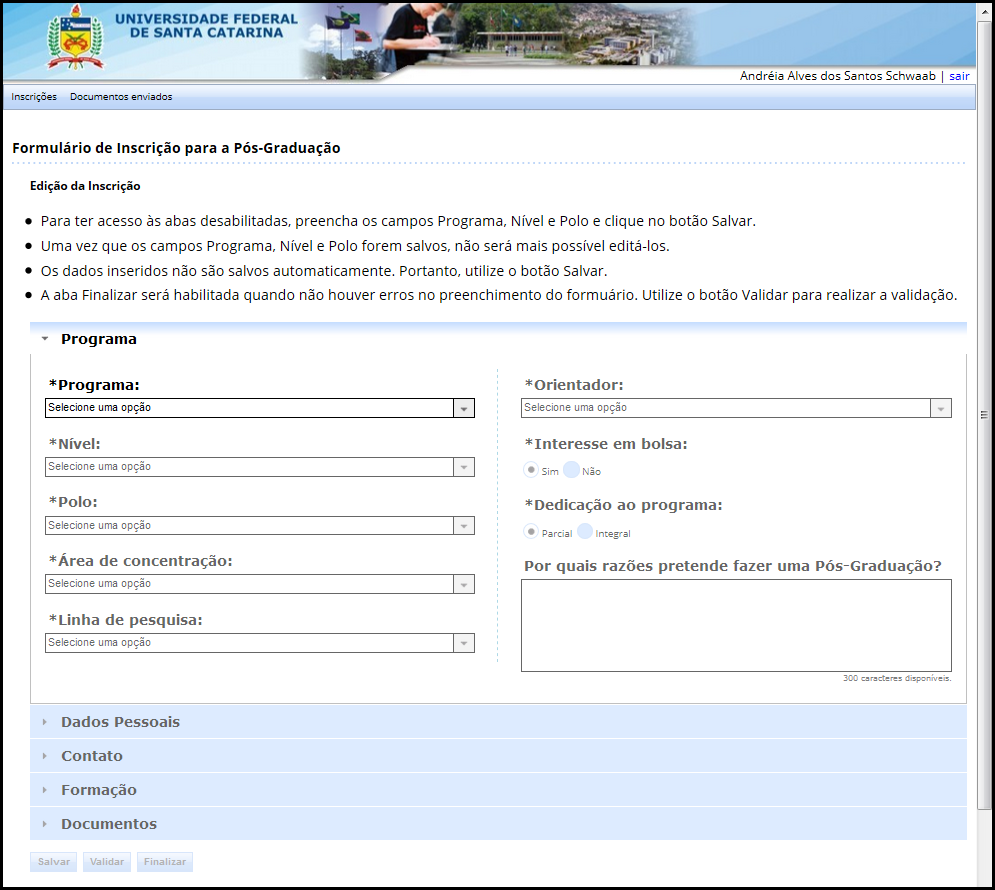
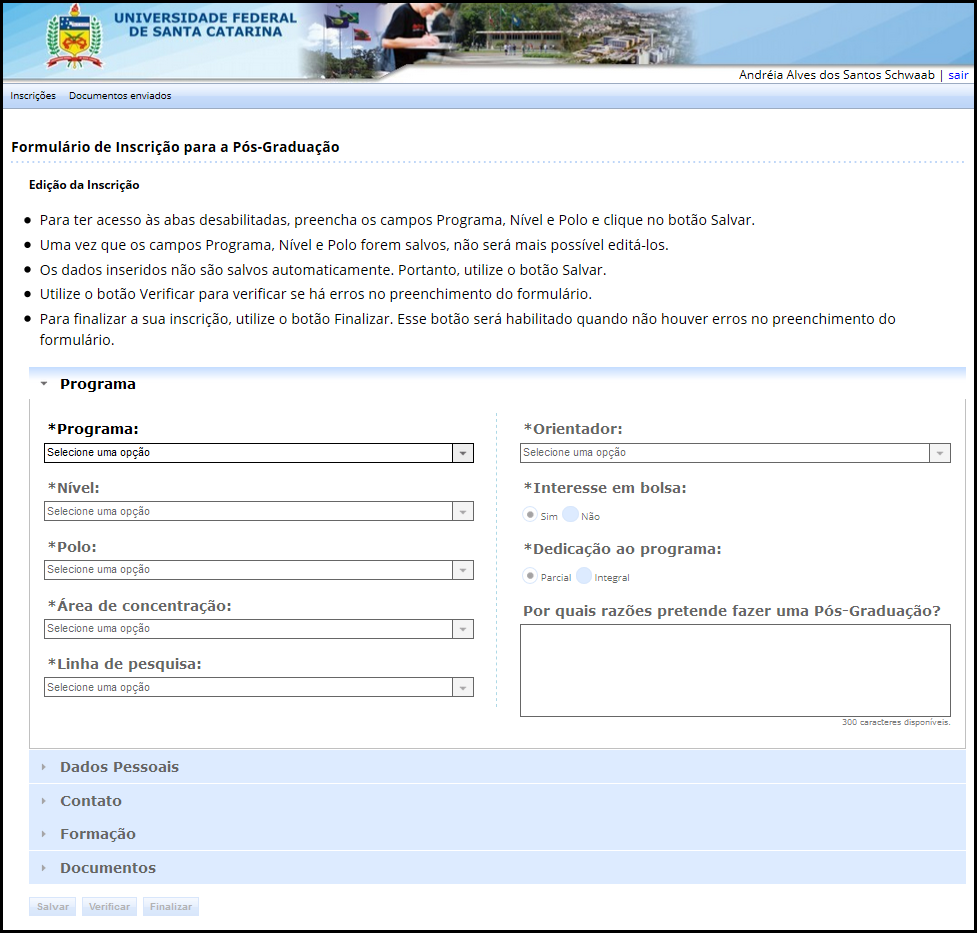
Implementação - verificação de erros. Comprovante de inscrição.

Changed region(s): [[0.0, 0.0, 1.0, 1.0], [0.522, 0.7281, 0.5527, 0.7584]]

diff --git a/relatorio.tex b/relatorio.tex
@@ -1153,11 +1153,41 @@ Uma das preocupações que podem ser levantadas em relação ao envio de documen
 
 
 % ---
-\subsection{Validação e finalização de uma inscrição}\label{sec:validacao}
+\subsection{Verificação de erros e finalização de uma inscrição}\label{sec:validacao}
 % ---
 
-\colorbox{yellow}{TODO}
+Pode-se verificar a existência de erros e o não-preenchimento de campos obrigatórios em qualquer momento durante o preenchimento do formulário através do botão \texttt{Verificar}\footnote{Salvo a situação em que o usuário está criando uma nova inscrição e ainda não salvou o formulário.}.
+%
+Na presença de tais erros, uma mensagem é exibida para o usuário e as abas que possuem campos não-preenchidos ou com erros são destacadas com ícone de exclamação, como pode ser visto na Figura~\ref{fig:verificacao_msg} para as abas \texttt{Dados Pessoais} e \texttt{Contato}.
+%
+\begin{figure}[!ht]
+  \caption{\label{fig:verificacao_msg} Erros encontrados nas abas \texttt{Dados Pessoais} e \texttt{Contato}.}
+  \begin{center}
+    \includegraphics[width=1.0\textwidth]{/app/verificacao_msg_desktop.png}
+  \end{center}
+  \fonte{Elaborada pelo autor.}
+\end{figure}
 
+Ao abrir tais abas, os campos não-validados estão destacados na cor vermelha e com um ícone de exclamação ao lado de seus rótulos (vide Figura~\ref{fig:verificacao_aba}). Neste momento, tendo o usuário corrigido os erros ou não, se o formulário for salvo, os ícones de erro desaparecem.
+
+Quando o formulário for verificado e não houver mais erros, uma mensagem de sucesso é exibida para o usuário (vide Figura~\ref{fig:verificacao_sucesso}), e o botão \texttt{Finalizar} é habilitado.
+
+\begin{figure}[!ht]
+  \caption{\label{fig:verificacao_aba} Campos não-preenchidos da aba \texttt{Dados Pessoais}.}
+  \begin{center}
+    \includegraphics[width=1.0\textwidth]{/app/verificacao_aba_desktop.png}
+  \end{center}
+  \fonte{Elaborada pelo autor.}
+\end{figure}
+
+
+\begin{figure}[!ht]
+  \caption{\label{fig:verificacao_sucesso} Formulário verificado e sem erros.}
+  \begin{center}
+    \includegraphics[width=1.0\textwidth]{/app/verificacao_sucesso_desktop.png}
+  \end{center}
+  \fonte{Elaborada pelo autor.}
+\end{figure}
 
 % ---
 \subsection{Documentos enviados}\label{sec:documentos_enviados}
@@ -1165,6 +1195,14 @@ Uma das preocupações que podem ser levantadas em relação ao envio de documen
 
 \colorbox{yellow}{TODO}
 
+
+\begin{figure}[!ht]
+  \caption{\label{fig:documentos_enviados} Lista de documentos enviados pelo candidato.}
+  \begin{center}
+    \includegraphics[width=1.0\textwidth]{/app/documentos_enviados_desktop.png}
+  \end{center}
+  \fonte{Elaborada pelo autor.}
+\end{figure}
 
 
 
